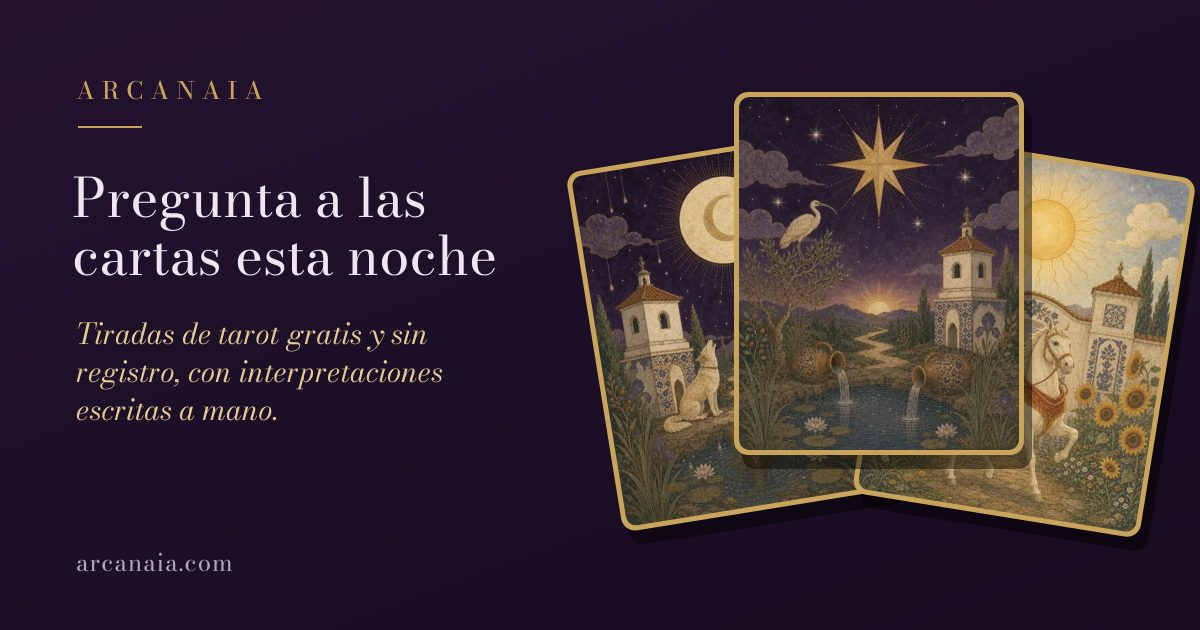
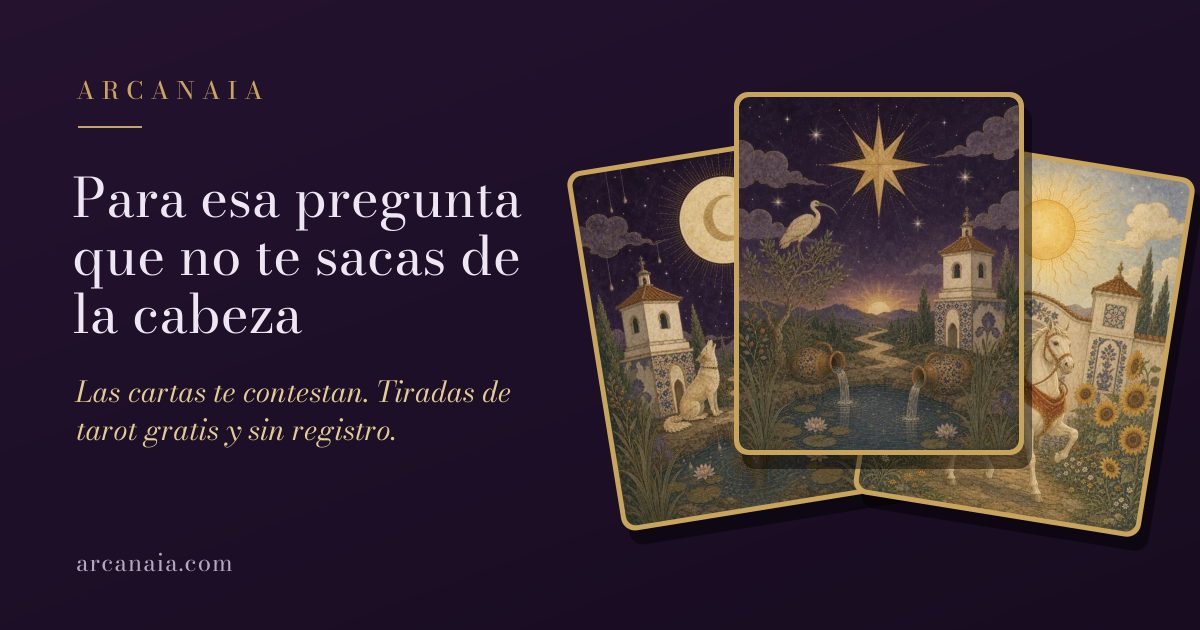
Portada: nuevo titular y botón Haz tu pregunta
Claude-Session: https://claude.ai/code/session_015mipqodNYxvkqCBcd84vj5

Changed region(s): [[0.0617, 0.2714, 0.4317, 0.7238]]

diff --git a/scripts/og/manifiesto.py b/scripts/og/manifiesto.py
@@ -57,6 +57,8 @@ for f in sorted(glob.glob(D + '/**/index.html', recursive=True)):
     if partes[0] == 'signos' and m: sub = f'Del {m.group(1)}. Cómo es, cómo quiere y cuál es su carta del tarot.'
     if partes[0] == 'horoscopo' and m: sub = f'Del {m.group(1)}. Tu carta del tarot para hoy en el amor, el trabajo y la salud.'
     sub = subs.get(ruta, sub)
+    if ruta == '/':  # el titular entero no cabe: la segunda frase pasa al subtítulo
+        h1, sub = 'Para esa pregunta que no te sacas de la cabeza', 'Las cartas te contestan. Tiradas de tarot gratis y sin registro.'
     paginas.append({'ruta': ruta, 'titulo': h1, 'sub': sub, 'cartas': cartas})
 for p in paginas:
     if p['cartas'] is None: p['cartas'] = [arcano_signo[p['ruta'].strip('/').split('/')[1]]]
